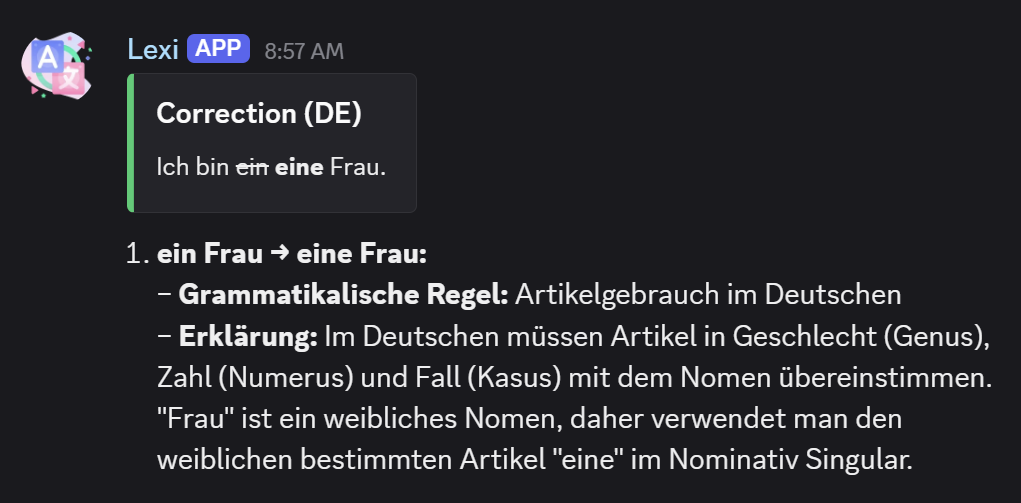
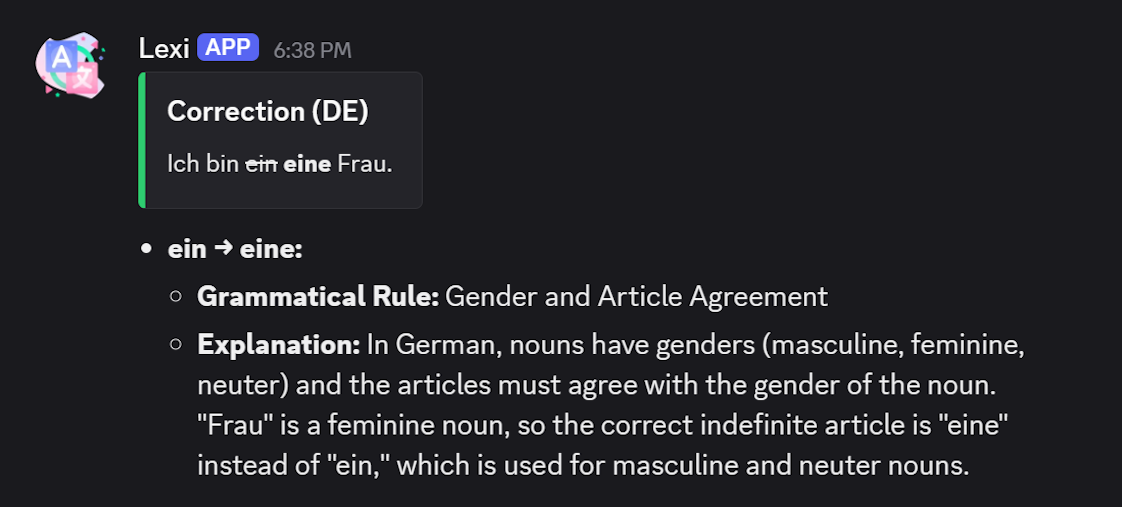
lexi has video demo

diff --git a/lexi.html b/lexi.html
@@ -189,7 +189,7 @@
         </div>
         <div style="flex: 1 1 480px;">
           <div style="width: 100%; margin: 0 auto;">
-            <img class="section-image transition rounded-border" src="./translation_bot_assets/lexi_anki.png" alt="Anki flashcard generated from Lexi's correction" style="width: 100%;">
+            <img class="section-image transition rounded-border" src="./translation_bot_assets/lexi_anki.png" alt="Anki flashcard generated from Lexi's correction" style="width: 87%;">
             <div style="max-width: 95%; margin: 0 auto;">
               <p class="image-label" style="text-align: center; margin-top: 0.1em;">
                 A flashcard generated from Lexi’s correction, highlighting the user’s mistake in red and the correction in green to make feedback visually memorable.
